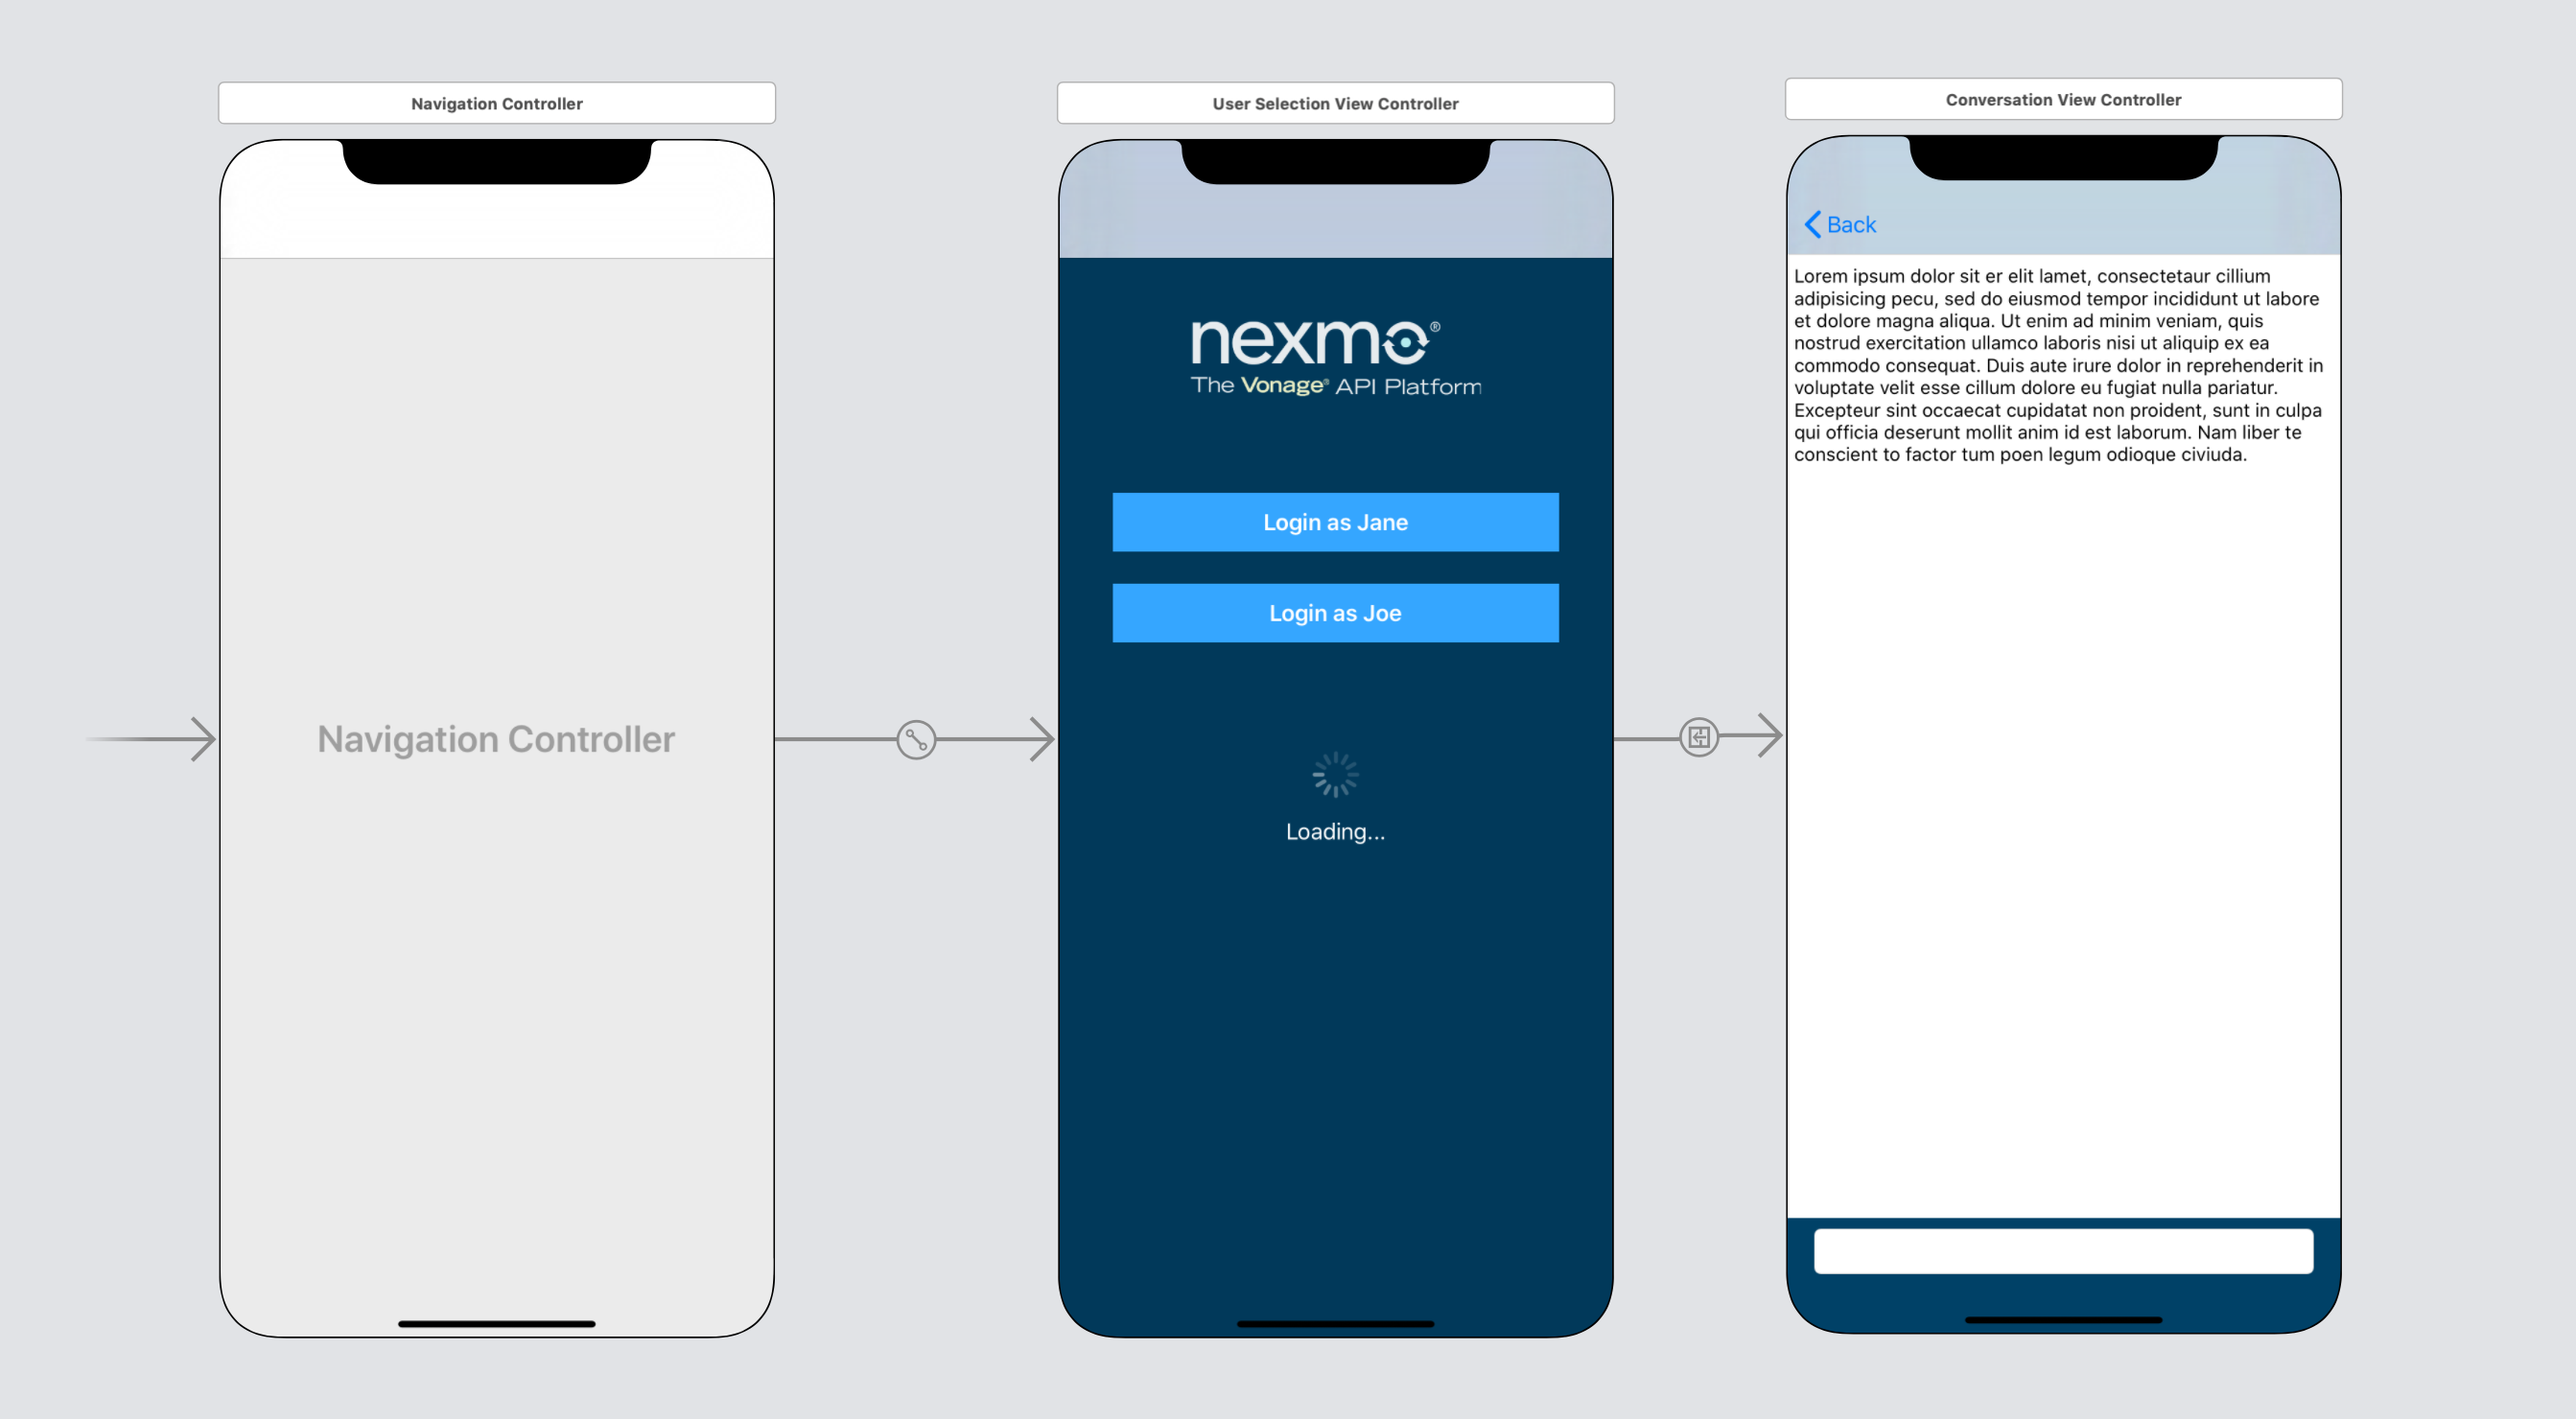
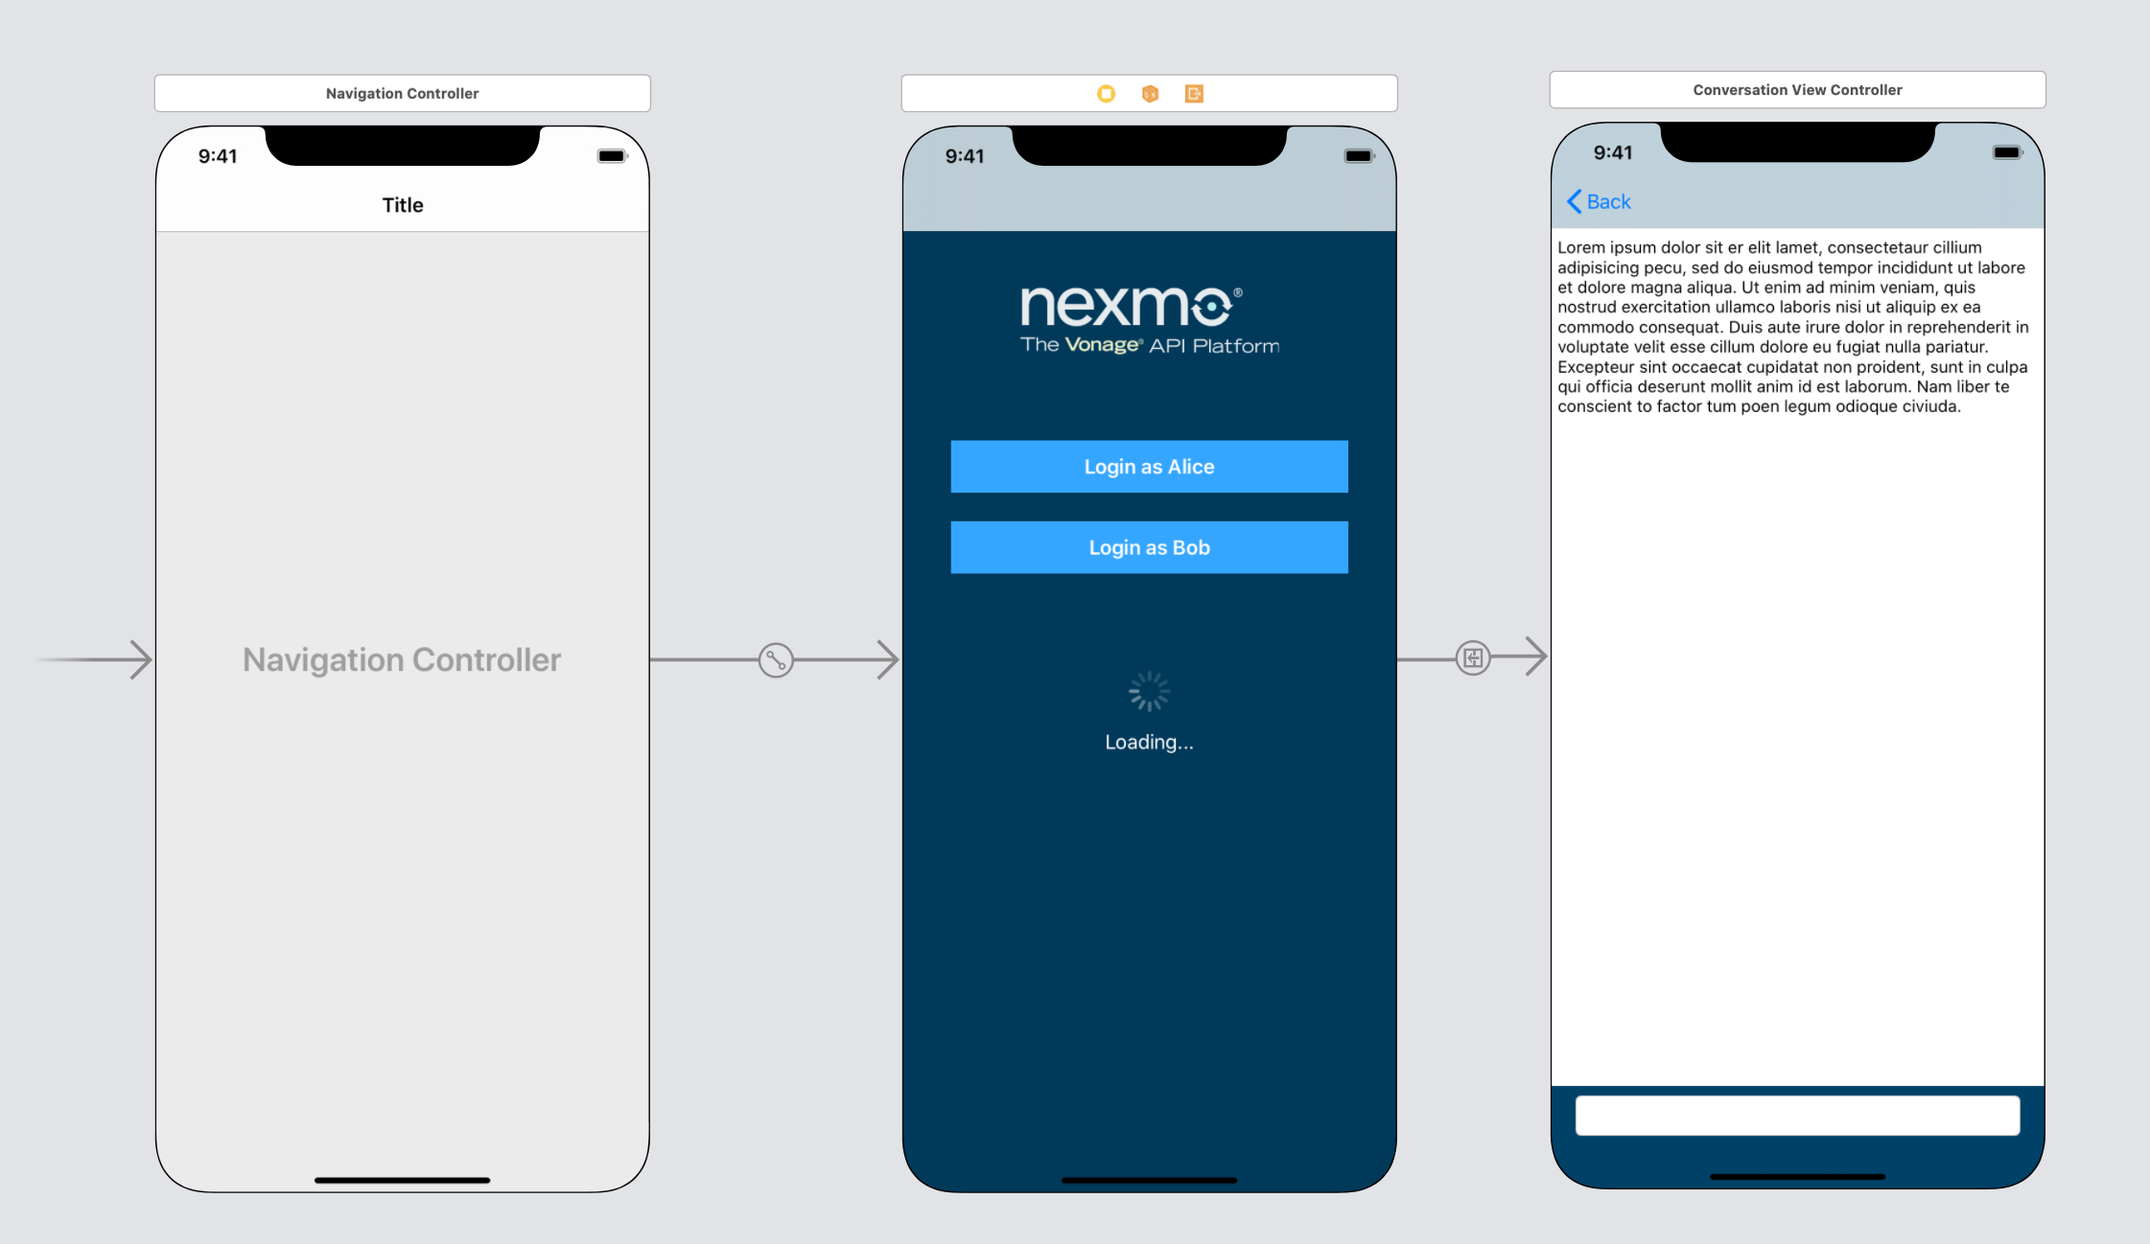
aajetunmobi/devx 3564 review and update ios app chat (#3038)
* remove web app error

* move repos

* update usernames

diff --git a/_tutorials/en/client-sdk/in-app-messaging/starter-project/swift.md b/_tutorials/en/client-sdk/in-app-messaging/starter-project/swift.md
@@ -11,33 +11,33 @@ To make things easier, we are providing a `Starter` project for you. It is a sim
 image: public/screenshots/tutorials/client-sdk/ios-in-app-messaging-chat/screens.png
 ```
 
-Clone this [GitHub project](https://github.com/Nexmo/ClientSDK-Get-Started-Messaging-Swift).
+Clone this [GitHub project](https://github.com/nexmo-community/ClientSDK-Get-Started-Messaging-Swift).
 
 Using the GitHub project you cloned, in the Start folder, open `GettingStarted.xcworkspace`. Then, within Xcode:
 
     
-Open `Constants.swift` file and add `Jane`'s and `Joe`'s user IDs and JWTs, and conversation ID you've created on the previous steps:
+Open `Constants.swift` file and add `Alice`'s and `Bob`'s user IDs and JWTs, and conversation ID you've created on the previous steps:
 
 ```swift
 enum User: String {
-    case jane = "Jane"
-    case joe = "Joe"
+    case alice = "Alice"
+    case bob = "Bob"
     
     var uuid: String {
         switch self {
-        case .jane:
-            return "" //TODO: swap with Jane's user uuid
-        case .joe:
-            return "" //TODO: swap with Joe's user uuid
+        case .alice:
+            return "" //TODO: swap with Alice's user uuid
+        case .bob:
+            return "" //TODO: swap with Bob's user uuid
         }
     }
     
     var jwt: String {
         switch self {
-        case .jane:
-            return "" //TODO: swap with a token for Jane
-        case .joe:
-            return "" //TODO: swap with a token for Joe
+        case .alice:
+            return "" //TODO: swap with a token for Alice
+        case .bob:
+            return "" //TODO: swap with a token for Bob
         }
     }
     

diff --git a/_tutorials/en/client-sdk/in-app-messaging/add-users-to-conversation/objective_c.md b/_tutorials/en/client-sdk/in-app-messaging/add-users-to-conversation/objective_c.md
@@ -6,10 +6,10 @@ description: Add your two new users as Conversation members
 # Add Users to the Conversation
 
 You must now add your [Users](/conversation/concepts/user) as [Members](/conversation/concepts/member) of the [Conversation](/conversation/concepts/conversation) using Nexmo CLI. 
-To add `Jane` to the conversation replace `CONVERSATION_ID` in the command below with your conversation Id generated previously (`CON-...`) and run the command:
+To add `Alice` to the conversation replace `CONVERSATION_ID` in the command below with your conversation Id generated previously (`CON-...`) and run the command:
 
 ```sh
-nexmo member:add CONVERSATION_ID action=join channel='{"type":"app"}' user_name=Jane
+nexmo member:add CONVERSATION_ID action=join channel='{"type":"app"}' user_name=Alice
 ```
 
 The output is ID of the Member:
@@ -18,9 +18,9 @@ The output is ID of the Member:
 Member added: MEM-aaaaaaa-bbbb-cccc-dddd-0123456789ab
 ```
 
-Now you need to add the second user, `Joe` to the Conversation. Similarly, replace the `CONVERSATION_ID` and execute the command:
+Now you need to add the second user, `Bob` to the Conversation. Similarly, replace the `CONVERSATION_ID` and execute the command:
 
 ```sh
-nexmo member:add CONVERSATION_ID action=join channel='{"type":"app"}' user_name=Joe
+nexmo member:add CONVERSATION_ID action=join channel='{"type":"app"}' user_name=Bob
 Member added: MEM-eeeeeee-...
 ```

diff --git a/_tutorials/en/client-sdk/in-app-messaging/add-users-to-conversation/swift.md b/_tutorials/en/client-sdk/in-app-messaging/add-users-to-conversation/swift.md
@@ -6,10 +6,10 @@ description: Add your two new users as Conversation members
 # Add Users to the Conversation
 
 You must now add your [Users](/conversation/concepts/user) as [Members](/conversation/concepts/member) of the [Conversation](/conversation/concepts/conversation) using Nexmo CLI. 
-To add `Jane` to the conversation replace `CONVERSATION_ID` in the command below with your conversation Id generated previously (`CON-...`) and run the command:
+To add `Alice` to the conversation replace `CONVERSATION_ID` in the command below with your conversation Id generated previously (`CON-...`) and run the command:
 
 ```sh
-nexmo member:add CONVERSATION_ID action=join channel='{"type":"app"}' user_name=Jane
+nexmo member:add CONVERSATION_ID action=join channel='{"type":"app"}' user_name=Alice
 ```
 
 The output is ID of the Member:
@@ -18,9 +18,9 @@ The output is ID of the Member:
 Member added: MEM-aaaaaaa-bbbb-cccc-dddd-0123456789ab
 ```
 
-Now you need to add the second user, `Joe` to the Conversation. Similarly, replace the `CONVERSATION_ID` and execute the command:
+Now you need to add the second user, `Bob` to the Conversation. Similarly, replace the `CONVERSATION_ID` and execute the command:
 
 ```sh
-nexmo member:add CONVERSATION_ID action=join channel='{"type":"app"}' user_name=Joe
+nexmo member:add CONVERSATION_ID action=join channel='{"type":"app"}' user_name=Bob
 Member added: MEM-eeeeeee-...
 ```

diff --git a/_tutorials/en/client-sdk/in-app-messaging/generate-jwts/objective_c.md b/_tutorials/en/client-sdk/in-app-messaging/generate-jwts/objective_c.md
@@ -10,9 +10,9 @@ You need to generate a JWT for each user. The JWT is used to authenticate the us
 In the following code remember to replace the `APPLICATION_ID` variable with id of your application:
 
 ``` shell
-nexmo jwt:generate sub=Jane exp=$(($(date +%s)+86400)) acl='{"paths":{"/*/users/**":{},"/*/conversations/**":{},"/*/sessions/**":{},"/*/devices/**":{},"/*/image/**":{},"/*/media/**":{},"/*/applications/**":{},"/*/push/**":{},"/*/knocking/**":{}}}' application_id=APPLICATION_ID
+nexmo jwt:generate sub=Alice exp=$(($(date +%s)+86400)) acl='{"paths":{"/*/users/**":{},"/*/conversations/**":{},"/*/sessions/**":{},"/*/devices/**":{},"/*/image/**":{},"/*/media/**":{},"/*/applications/**":{},"/*/push/**":{},"/*/knocking/**":{}}}' application_id=APPLICATION_ID
 
-nexmo jwt:generate sub=Joe exp=$(($(date +%s)+86400)) acl='{"paths":{"/*/users/**":{},"/*/conversations/**":{},"/*/sessions/**":{},"/*/devices/**":{},"/*/image/**":{},"/*/media/**":{},"/*/applications/**":{},"/*/push/**":{},"/*/knocking/**":{}}}' application_id=APPLICATION_ID
+nexmo jwt:generate sub=Bob exp=$(($(date +%s)+86400)) acl='{"paths":{"/*/users/**":{},"/*/conversations/**":{},"/*/sessions/**":{},"/*/devices/**":{},"/*/image/**":{},"/*/media/**":{},"/*/applications/**":{},"/*/push/**":{},"/*/knocking/**":{}}}' application_id=APPLICATION_ID
 ```
 
 The above commands set the expiry of the JWT to one day from now, which is the maximum.

diff --git a/_tutorials/en/client-sdk/in-app-messaging/generate-jwts/swift.md b/_tutorials/en/client-sdk/in-app-messaging/generate-jwts/swift.md
@@ -10,9 +10,9 @@ You need to generate a JWT for each user. The JWT is used to authenticate the us
 In the following code remember to replace the `APPLICATION_ID` variable with id of your application:
 
 ``` shell
-nexmo jwt:generate sub=Jane exp=$(($(date +%s)+86400)) acl='{"paths":{"/*/users/**":{},"/*/conversations/**":{},"/*/sessions/**":{},"/*/devices/**":{},"/*/image/**":{},"/*/media/**":{},"/*/applications/**":{},"/*/push/**":{},"/*/knocking/**":{}}}' application_id=APPLICATION_ID
+nexmo jwt:generate sub=Alice exp=$(($(date +%s)+86400)) acl='{"paths":{"/*/users/**":{},"/*/conversations/**":{},"/*/sessions/**":{},"/*/devices/**":{},"/*/image/**":{},"/*/media/**":{},"/*/applications/**":{},"/*/push/**":{},"/*/knocking/**":{}}}' application_id=APPLICATION_ID
 
-nexmo jwt:generate sub=Joe exp=$(($(date +%s)+86400)) acl='{"paths":{"/*/users/**":{},"/*/conversations/**":{},"/*/sessions/**":{},"/*/devices/**":{},"/*/image/**":{},"/*/media/**":{},"/*/applications/**":{},"/*/push/**":{},"/*/knocking/**":{}}}' application_id=APPLICATION_ID
+nexmo jwt:generate sub=Bob exp=$(($(date +%s)+86400)) acl='{"paths":{"/*/users/**":{},"/*/conversations/**":{},"/*/sessions/**":{},"/*/devices/**":{},"/*/image/**":{},"/*/media/**":{},"/*/applications/**":{},"/*/push/**":{},"/*/knocking/**":{}}}' application_id=APPLICATION_ID
 ```
 
 The above commands set the expiry of the JWT to one day from now, which is the maximum.

diff --git a/_tutorials/en/client-sdk/in-app-messaging/starter-project/objective_c.md b/_tutorials/en/client-sdk/in-app-messaging/starter-project/objective_c.md
@@ -11,7 +11,7 @@ To make things easier, we are providing a `Starter` project for you. It is a sim
 image: public/screenshots/tutorials/client-sdk/ios-in-app-messaging-chat/screens.png
 ```
 
-Clone this [GitHub project](https://github.com/Nexmo/ClientSDK-Get-Started-Messaging-Objective-C).
+Clone this [GitHub project](https://github.com/nexmo-community/ClientSDK-Get-Started-Messaging-Objective-C).
 
 Using the GitHub project you cloned, in the Start folder, open `GettingStarted.xcworkspace`. Then, within Xcode:
 
@@ -19,14 +19,14 @@ Using the GitHub project you cloned, in the Start folder, open `GettingStarted.x
 Open `User.h` file and replace the user id and token:
 
 ```objective-c
-#define kJaneName @"Jane"
-#define kJaneUUID @"" //TODO: swap with a user uuid for Jane
-#define kJaneJWT @"" //TODO: swap with a token for Jane
+#define kAliceName @"Alice"
+#define kAliceUUID @"" //TODO: swap with a user uuid for Alice
+#define kAliceJWT @"" //TODO: swap with a token for Alice
 
 
-#define kJoeName @"Joe"
-#define kJoeUUID @"" //TODO: swap with a user uuid for Joe
-#define kJoeJWT @"" //TODO: swap with a token for Joe
+#define kBobName @"Bob"
+#define kBobUUID @"" //TODO: swap with a user uuid for Bob
+#define kBobJWT @"" //TODO: swap with a token for Bob
 
 
 #define kConversationUUID @"" //TODO: swap with a phone number to call

diff --git a/_tutorials/en/client-sdk/in-app-messaging/create-users/objective_c.md b/_tutorials/en/client-sdk/in-app-messaging/create-users/objective_c.md
@@ -7,11 +7,11 @@ description: In this step you learn how to create the Users that will participat
 
 Each participant in a [Conversation](/conversation/concepts/conversation) is represented by a [User](/conversation/concepts/user) object and must be authenticated by the Client SDK. In a production application, you would typically store this user information in a database.
 
-Execute the following commands to create two users, `Jane` and `Joe` who will log in to the Nexmo Client and participate in the chat (Conversation).
+Execute the following commands to create two users, `Alice` and `Bob` who will log in to the Nexmo Client and participate in the chat (Conversation).
 
 ```bash
-nexmo user:create name="Jane"
-nexmo user:create name="Joe"
+nexmo user:create name="Alice"
+nexmo user:create name="Bob"
 ```
 
 This will return user IDs similar to the following:

diff --git a/_tutorials/en/client-sdk/in-app-messaging/create-users/swift.md b/_tutorials/en/client-sdk/in-app-messaging/create-users/swift.md
@@ -7,11 +7,11 @@ description: In this step you learn how to create the Users that will participat
 
 Each participant in a [Conversation](/conversation/concepts/conversation) is represented by a [User](/conversation/concepts/user) object and must be authenticated by the Client SDK. In a production application, you would typically store this user information in a database.
 
-Execute the following commands to create two users, `Jane` and `Joe` who will log in to the Nexmo Client and participate in the chat (Conversation).
+Execute the following commands to create two users, `Alice` and `Bob` who will log in to the Nexmo Client and participate in the chat (Conversation).
 
 ```bash
-nexmo user:create name="Jane"
-nexmo user:create name="Joe"
+nexmo user:create name="Alice"
+nexmo user:create name="Bob"
 ```
 
 This will return user IDs similar to the following:
